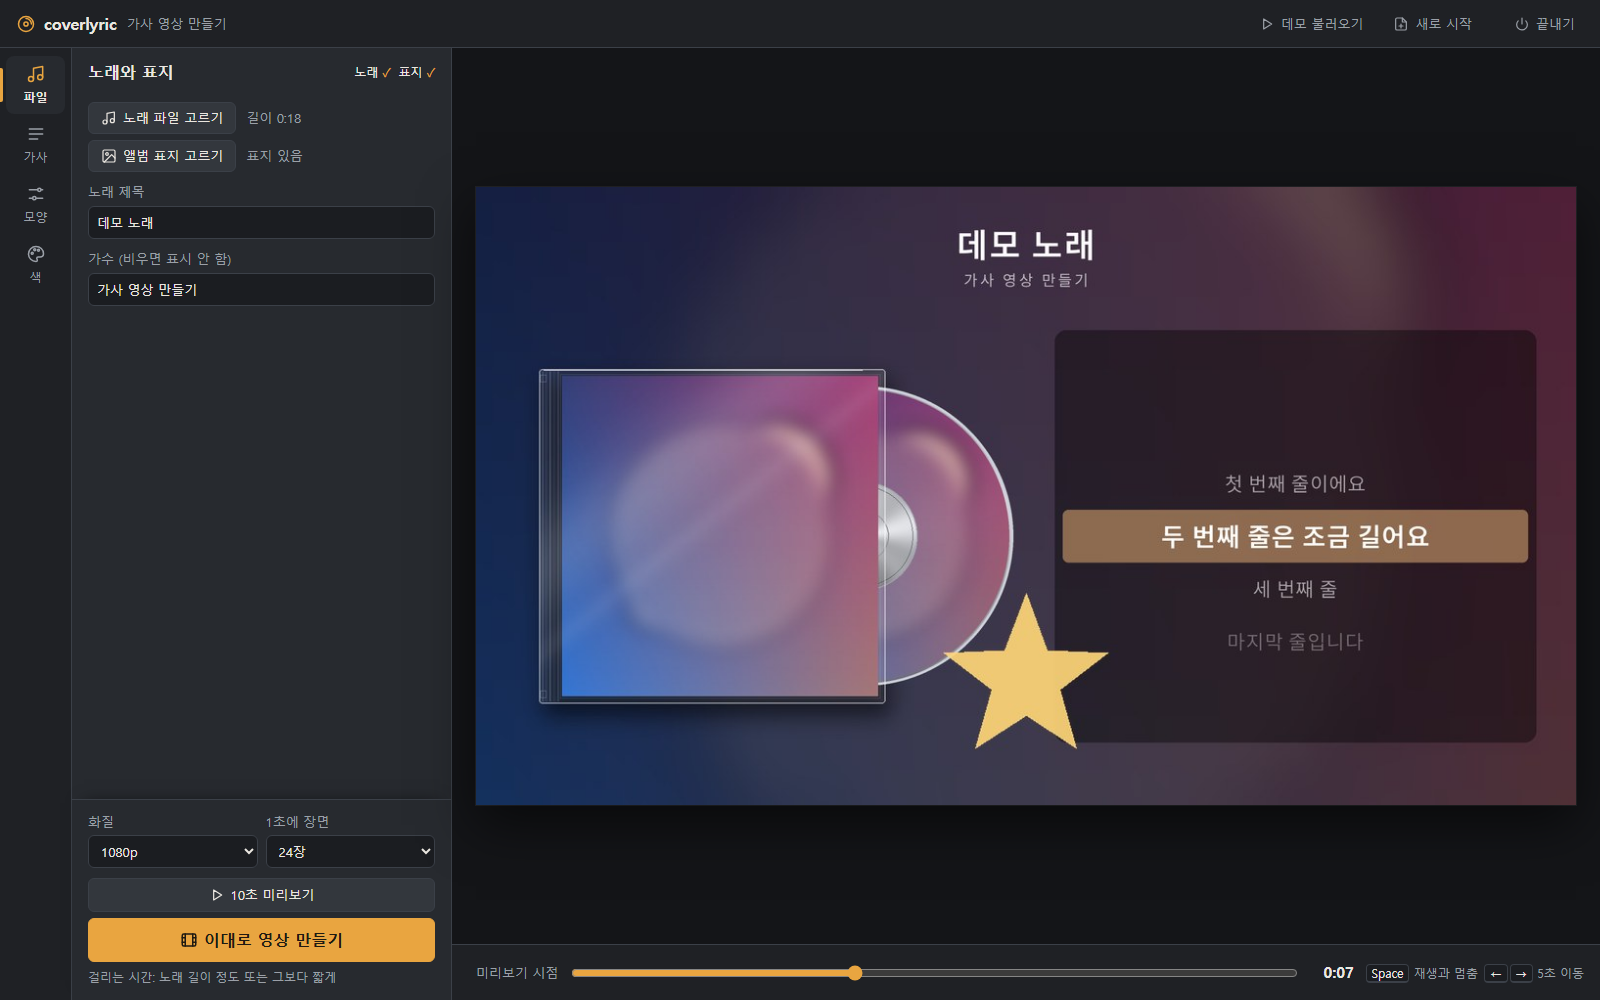
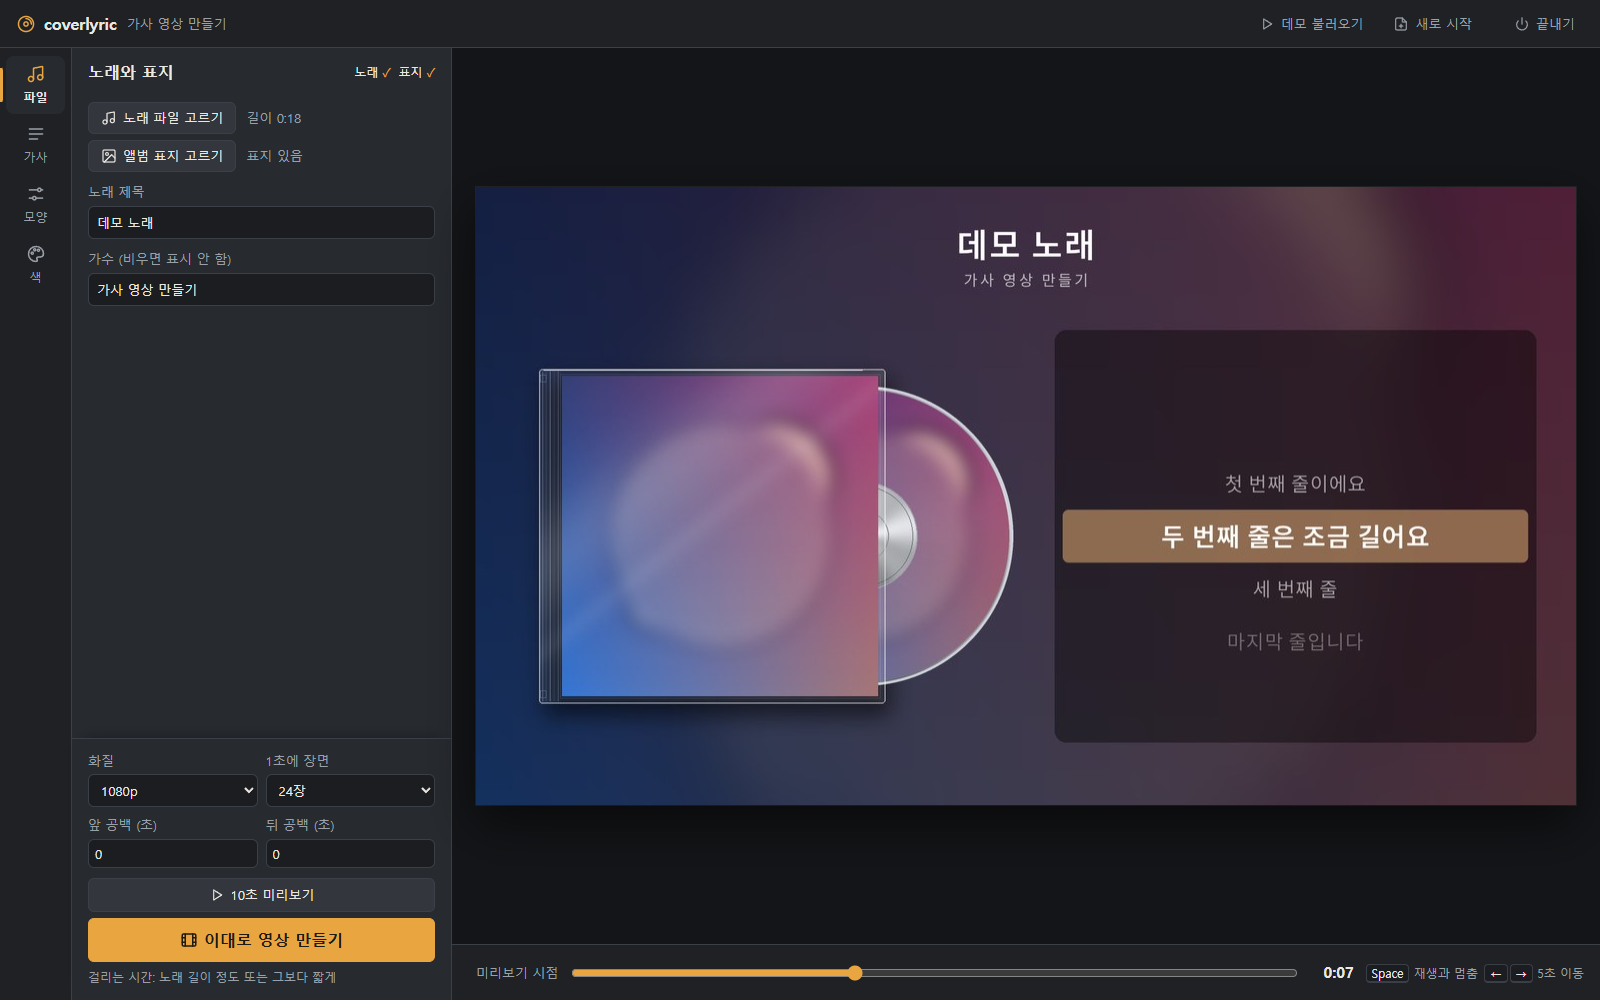
feat: silence before and after the song

Changed region(s): [[0.5938, 0.589, 0.6875, 0.744], [0.1562, 0.744, 0.2188, 0.868], [0.0625, 0.775, 0.0938, 0.868]]

diff --git a/src/coverlyric/web/app.js b/src/coverlyric/web/app.js
@@ -372,6 +372,8 @@ function fillLook() {
   $("fade").checked = s.fade;
   $("height").value = String(s.height);
   $("fps").value = String(s.fps);
+  $("lead").value = String(s.lead);
+  $("tail").value = String(s.tail);
   drawAnim();
   fillPlaces();
   const select = $("font");
@@ -944,7 +946,7 @@ async function pollRender() {
     const share = job.total ? job.done / job.total : 0;
     $("progress-bar").value = share;
     $("progress-text").textContent = `${Math.round(share * 100)}%${job.eta != null ? timeLeft(job.eta) : " · 남은 시간 계산 중"}`;
-    showRenderPlace(job.done || 0, job.total || state.duration || 0);
+    showRenderPlace(job.done || 0, job.total || videoLength());
     setTimeout(pollRender, 1000);
     return;
   }
@@ -972,7 +974,7 @@ async function pollClip() {
   if (job.state === "running") {
     $("clip-make").disabled = true;
     label.textContent = `만드는 중 ${Math.round((job.total ? job.done / job.total : 0) * 100)}%`;
-    showRenderPlace((job.at || 0) + (job.done || 0), state.duration || 0);
+    showRenderPlace((job.at || 0) + (job.done || 0), videoLength());
     setTimeout(pollClip, 500);
     return;
   }
@@ -1001,12 +1003,16 @@ function closeClip() {
   $("clip-label").textContent = "10초 미리보기";
 }
 
-// Progress in song terms: how far into the song the video is made, and the lyric sung there, so the
-// pace reads against the song itself.
+// The video is the song with the silence before and after it.
+function videoLength() {
+  return (state.duration || 0) + (state.style.lead || 0) + (state.style.tail || 0);
+}
+
+// Progress on the video's clock, and the lyric sung there, so the pace reads against the song itself.
 function showRenderPlace(done, total) {
   const short = (t) => clock(t).replace(/\.\d+$/, "");
   $("progress-song").textContent = `${short(done)} / ${short(total)}`;
-  const at = lineAt(done);
+  const at = lineAt(done - (state.style.lead || 0));
   const text = at < 0 ? "" : state.lines[at][1].trim();
   const el = $("progress-line");
   el.textContent = text || (at < 0 ? "전주" : "간주");
@@ -1194,6 +1200,14 @@ function bind() {
   $("fade").addEventListener("change", (e) => { state.style.fade = e.target.checked; scheduleSync(0); });
   $("height").addEventListener("change", (e) => { state.style.height = Number(e.target.value); scheduleSync(0); });
   $("fps").addEventListener("change", (e) => { state.style.fps = Number(e.target.value); scheduleSync(0); });
+  for (const key of ["lead", "tail"]) {
+    $(key).addEventListener("change", (e) => {
+      const seconds = Math.min(10, Math.max(0, Math.round((Number(e.target.value) || 0) * 2) / 2));
+      e.target.value = String(seconds);
+      state.style[key] = seconds;
+      scheduleSync(0);
+    });
+  }
   $("anim-file").addEventListener("change", (e) => { addAnim(e.target.files); e.target.value = ""; });
   $("anim_fps").addEventListener("input", (e) => {
     state.style.anim_fps = Number(e.target.value);

diff --git a/src/coverlyric/web/index.html b/src/coverlyric/web/index.html
@@ -249,6 +249,12 @@
           <option value="30">30장</option>
         </select>
       </label>
+      <label class="field" title="노래가 시작하기 전에 소리 없이 표지와 제목만 보이는 시간">앞 공백 (초)
+        <input type="number" id="lead" min="0" max="10" step="0.5">
+      </label>
+      <label class="field" title="노래가 끝난 뒤 소리 없이 마지막 화면이 이어지는 시간">뒤 공백 (초)
+        <input type="number" id="tail" min="0" max="10" step="0.5">
+      </label>
     </div>
     <div class="make-row">
       <button id="clip-make" title="미리보기 시점부터 10초를 작게 만들어 바로 재생합니다"><svg class="i"><use href="#i-play"/></svg><span id="clip-label">10초 미리보기</span></button>

diff --git a/src/coverlyric/web/app.css b/src/coverlyric/web/app.css
@@ -285,7 +285,7 @@ input[type="range"] { width: 100%; margin: 4px 0; }
 .make-row { display: flex; flex-direction: column; gap: 6px; }
 #clip-make { width: 100%; height: 34px; justify-content: center; white-space: nowrap; }
 .output-options { display: flex; flex-wrap: wrap; gap: 8px; margin-bottom: 10px; }
-.output-options .field { flex: 1; margin: 0; }
+.output-options .field { flex: 1 1 40%; margin: 0; }
 button.primary {
   width: 100%;
   height: 44px;

diff --git a/tests/test_pad.py b/tests/test_pad.py
@@ -1,0 +1,101 @@
+"""Silence before and after the song: the video starts on the cover, the song and the lyrics a little later."""
+
+import json
+from pathlib import Path
+
+import pytest
+from test_fade import DEMO, loudness
+
+from coverlyric import media, render, server
+from coverlyric.project import Project
+
+LEAD, TAIL = 1.0, 1.5
+PAD = render.Style(lead=LEAD, tail=TAIL, fade=False)
+
+
+def test_the_lines_move_on_the_video_clock_and_the_project_keeps_song_times():
+    song = render.Song("a.wav", "c.png", "t", duration=10.0)
+    lines = ((2.0, "a"), (4.5, "b"))
+    moved, video = render.padded(lines, song, PAD)
+    assert moved == ((3.0, "a"), (5.5, "b"))
+    assert video.duration == 12.5 and (video.lead, video.tail) == (LEAD, TAIL)
+    assert render.padded(moved, video, PAD) == (moved, video), "padding twice adds nothing"
+    assert render.padded(lines, song, render.Style()) == (lines, song)
+
+
+def test_a_moment_of_the_song_in_the_video():
+    assert render.video_time(4.0, PAD) == 5.0
+    assert render.video_time(0.0, PAD) == 0.0, "the song's start shows the silence before it"
+    assert render.video_time(4.0, render.Style()) == 4.0
+
+
+def test_a_style_saved_without_them_has_no_silence():
+    style = render.Style.from_dict({"lead": "1.5"})
+    assert (style.lead, style.tail) == (1.5, 0.0)
+
+
+def make(tmp_path: Path, span, style: render.Style, quick: bool = False) -> Path:
+    demo = Project.load(DEMO)
+    out = tmp_path / "pad.mp4"
+    render.render(out, demo.preview_lines(), demo.song(), style, 2, span, lambda *_: None, quick)
+    return out
+
+
+def test_the_song_starts_after_the_silence_before_it(tmp_path):
+    (tmp_path / "pad").mkdir()
+    (tmp_path / "plain").mkdir()
+    pad = make(tmp_path / "pad", (0.0, 2.5), PAD)
+    plain = make(tmp_path / "plain", (0.0, 1.5), render.Style(fade=False))
+    assert loudness(pad, 0.1, 0.8) < 1
+    assert loudness(plain, 0.2) > 100
+    assert loudness(pad, LEAD + 0.2) == pytest.approx(loudness(plain, 0.2), rel=0.1)
+    assert media.duration(str(pad)) == pytest.approx(2.5, abs=0.1)
+
+
+def test_the_video_is_as_long_as_the_song_and_both_silences(tmp_path):
+    song = Project.load(DEMO).song().duration
+    out = make(tmp_path, None, PAD, quick=True)
+    assert media.duration(str(out)) == pytest.approx(song + LEAD + TAIL, abs=0.15)
+    assert loudness(out, song + LEAD - 0.6, 0.3) > 1
+    assert loudness(out, song + LEAD + 0.3, 1.0) < 1
+
+
+def test_the_page_maps_the_preview_time_onto_the_video(tmp_path):
+    app = server.App(tmp_path)
+    app.demo()
+    app.update({"style": {"lead": LEAD, "tail": TAIL}})
+    song = app.project.song().duration
+    app.job = {"state": "idle"}
+    assert app.preview(0.0)[0][:2] == b"\xff\xd8"
+    app.start_clip(4.0)
+    assert app.clip["at"] == pytest.approx(4.0 + LEAD)
+    app.stop_clip()
+    app.start_clip(0.0)
+    assert app.clip["at"] == 0.0
+    app.stop_clip()
+    app.start_clip(song + 5.0)
+    assert app.clip["at"] == pytest.approx(song + LEAD + TAIL - 1.0)
+    app.stop_clip()
+
+
+def test_a_render_job_counts_the_padded_length(tmp_path, monkeypatch):
+    app = server.App(tmp_path)
+    app.demo()
+    app.update({"style": {"lead": LEAD, "tail": TAIL}})
+    started = []
+    monkeypatch.setattr(
+        server.subprocess, "Popen", lambda cmd, **kw: started.append(cmd) or FakeProc()
+    )
+    monkeypatch.setattr(app, "watch", lambda *a: None)
+    job = app.begin_render()
+    assert job["total"] == pytest.approx(app.project.duration + LEAD + TAIL)
+    data = json.loads((app.work / "job.json").read_text(encoding="utf-8"))
+    assert (data["style"]["lead"], data["style"]["tail"]) == (LEAD, TAIL)
+
+
+class FakeProc:
+    stdout = iter(())
+    pid = 0
+
+    def wait(self):
+        return 0

diff --git a/src/coverlyric/render.py b/src/coverlyric/render.py
@@ -113,6 +113,8 @@ class Style:
     floor: float = 0.0  # 0 to 1: a soft shadow on the floor under the album
     reflection: bool = False  # the case mirrored on the floor under it (case layout)
     intro: float = 0.0  # seconds of a full-frame title card at the start, ended by the first line
+    lead: float = 0.0  # seconds of silence before the song starts
+    tail: float = 0.0  # seconds of silence after the song ends
 
     @classmethod
     def from_dict(cls, data: dict) -> Style:
@@ -137,6 +139,8 @@ class Song:
     artist: str = ""
     duration: float = 0.0
     anim: tuple[str, ...] = ()  # the moving picture: one GIF or images in order
+    lead: float = 0.0  # seconds of silence the video has before the audio starts; in duration
+    tail: float = 0.0  # seconds of silence after the audio; in duration
 
 
 def band_rgb(style: Style) -> tuple[int, int, int]:
@@ -1298,6 +1302,7 @@ def render(
     Returns what the user should know about the video: ANIM_DROPPED and SMALLER, or "" when it is
     as asked."""
     codec = "libx264" if quick else media.encoder()
+    lines, song = padded(lines, song, style)
     tries = steps(workers, bool(song.anim), not quick and not HEIGHTS.get(style.height))
     for k, (count, shared, moving, small) in enumerate(tries):
         part = song if moving else replace(song, anim=())
@@ -1394,6 +1399,24 @@ def room_for(mb: float) -> bool:
 FADE_IN, FADE_OUT = 0.5, 1.5  # seconds
 
 
+def padded(
+    lines: tuple[tuple[float, str], ...], song: Song, style: Style
+) -> tuple[tuple[tuple[float, str], ...], Song]:
+    """The lines and the song on the video's own clock: style.lead seconds of silence first, the lines
+    moved later by as much, and style.tail seconds of silence at the end. The project keeps song times."""
+    if song.lead or song.tail or (style.lead <= 0 and style.tail <= 0):
+        return lines, song
+    lead, tail = max(0.0, style.lead), max(0.0, style.tail)
+    moved = tuple((t + lead, text) for t, text in lines)
+    return moved, replace(song, duration=song.duration + lead + tail, lead=lead, tail=tail)
+
+
+def video_time(t: float, style: Style) -> float:
+    """Where a moment of the song falls in the video. The song's start shows the video's start, so a
+    preview at 0 shows the silence before the song."""
+    return t + max(0.0, style.lead) if t > 0 else 0.0
+
+
 def fades(style: Style, duration: float, first: float, last: float) -> tuple[list[str], list[str]]:
     """ffmpeg's video and audio filters for the fade from and to black and silence, on the part of
     the song from first to last: the fade in only when it holds the start, the fade out only when it
@@ -1429,6 +1452,11 @@ def encode(
     begin, total = round(first * fps), math.ceil(last * fps)
     step = QUICK_STEP if quick else 1
     vf, af = fades(style, song.duration, first, last)
+    # The audio's own clock is behind the video's by song.lead; the silence before it is a delay and
+    # the silence after it is padding up to the part's length.
+    heard = first - song.lead
+    if song.lead or song.tail:
+        af[:0] = [*([f"adelay={round(-heard * 1000)}:all=1"] if heard < 0 else []), "apad"]
     if not quick and HEIGHTS.get(style.height):
         vf.insert(0, "scale={}:{}".format(*HEIGHTS[style.height]))
     if quick:
@@ -1454,7 +1482,7 @@ def encode(
         "-i",
         "-",
         "-ss",
-        f"{first:.3f}",
+        f"{max(0.0, heard):.3f}",
         "-t",
         f"{last - first:.3f}",
         "-i",
@@ -1471,6 +1499,8 @@ def encode(
         "aac",
         "-b:a",
         "192k",
+        "-t",
+        f"{last - first:.3f}",
         "-movflags",
         "+faststart",
         str(out),

diff --git a/src/coverlyric/server.py b/src/coverlyric/server.py
@@ -296,9 +296,10 @@ class App:
         p = self.project
         if not p.art:
             raise ValueError("앨범 표지가 없습니다. 파일 묶음에서 표지를 넣습니다.")
-        song = p.song()
+        lines, song = render.padded(p.preview_lines(), p.song(), p.style)
+        t = render.video_time(t, p.style)
         with self.lock:
-            img = render.frame(t, p.preview_lines(), song, p.style)
+            img = render.frame(t, lines, song, p.style)
         width = min(1280, max(320, width))
         small = img.resize((width, round(width * 9 / 16)), Image.LANCZOS)
         buf = io.BytesIO()
@@ -345,7 +346,9 @@ class App:
         self.stop_clip()  # the video wins over a look at it
         if self.auto.get("state") == "running":
             # Both at once need about 2 GB, more than a 4 GB PC has free.
-            raise ValueError("자동 맞추기가 진행 중입니다. 끝나거나 취소한 뒤에 영상을 만들 수 있습니다.")
+            raise ValueError(
+                "자동 맞추기가 진행 중입니다. 끝나거나 취소한 뒤에 영상을 만들 수 있습니다."
+            )
         p = self.project
         if not p.audio or not p.art:
             raise ValueError("노래 파일과 앨범 표지가 필요합니다. 파일 묶음에서 넣습니다.")
@@ -371,7 +374,8 @@ class App:
             **media.below_normal(),
             **new_group(),
         )
-        self.job = {"state": "running", "done": 0.0, "total": p.duration, "started": time.time()}
+        total = p.duration + p.style.lead + p.style.tail
+        self.job = {"state": "running", "done": 0.0, "total": total, "started": time.time()}
         LOG.info("render started: %s (%.1f s)", out.name, p.duration)
         threading.Thread(target=self.watch, args=(self.proc, out), daemon=True).start()
         return self.job
@@ -436,12 +440,14 @@ class App:
         if self.clip.get("state") == "running":
             return self.clip
         if self.job.get("state") == "running" or self.auto.get("state") == "running":
-            raise ValueError("영상 만들기나 자동 맞추기가 끝난 뒤에 미리보기 영상을 만들 수 있습니다.")
+            raise ValueError(
+                "영상 만들기나 자동 맞추기가 끝난 뒤에 미리보기 영상을 만들 수 있습니다."
+            )
         p = self.project
         if not p.audio or not p.art:
             raise ValueError("노래 파일과 앨범 표지가 필요합니다. 파일 묶음에서 넣습니다.")
-        song = p.song()
-        start = min(max(0.0, at), max(0.0, song.duration - 1.0))
+        _, song = render.padded((), p.song(), p.style)
+        start = min(render.video_time(max(0.0, at), p.style), max(0.0, song.duration - 1.0))
         end = min(song.duration, start + CLIP_S)
         out = self.work / "preview-clip.mp4"
         job = self.work / "clip-job.json"

diff --git a/src/coverlyric/__main__.py b/src/coverlyric/__main__.py
@@ -115,12 +115,12 @@ def run_job(path: Path) -> None:
     first = next((t for t, text in lines if text), 0.0)
     still = render.frame(min(song.duration, first + 0.6), lines, song, project.style)
     still.resize((1280, 720), Image.LANCZOS).save(out.with_suffix(".png"))
+    # The timing files go with the video, so they are on its clock, after the silence before the song.
+    timed, video = render.padded(tuple(project.lines), song, project.style)
     out.with_suffix(".lrc").write_text(
-        timing.to_lrc(project.lines, project.title, project.artist), encoding="utf-8"
+        timing.to_lrc(list(timed), project.title, project.artist), encoding="utf-8"
     )
-    out.with_suffix(".srt").write_text(
-        timing.to_srt(project.lines, song.duration), encoding="utf-8"
-    )
+    out.with_suffix(".srt").write_text(timing.to_srt(list(timed), video.duration), encoding="utf-8")
 
 
 def run_auto(path: Path) -> None:

diff --git a/docs/guide.en.md b/docs/guide.en.md
@@ -135,6 +135,11 @@ are in the **색** group, the rest in **모양**.
 
 - **화질** (1080p or 720p) and **1초에 장면** (24 or 30 frames a second): size and frame rate of the
   video. A 720p file is smaller and a little faster to make.
+- **앞 공백** and **뒤 공백** (silence before and after, 0 to 10 s in 0.5 s steps): silent time
+  before and after the song. During the silence before, only the cover and the title show, and the
+  song and the lyrics start that much later. During the silence after, the last frame stays. The
+  fade is at the start and the end of the whole video, silence included. The saved lyric times do
+  not change; only the LRC and SRT files saved next to the video are moved to the video's clock.
 - **10초 미리보기** (10-second preview) makes 10 seconds from the preview time at small size and
   plays it in place of the still; **미리보기 닫기** closes it.
 - **이대로 영상 만들기** → **확인**. While it runs, the page shows how far into the song the video is

diff --git a/docs/guide.md b/docs/guide.md
@@ -128,6 +128,10 @@
 
 - **화질** (1080p, 720p), **1초에 장면** (24장, 30장): 만들 영상의 크기와 초당 장면 수. 720p는 파일이
   작고 조금 빨리 만들어집니다.
+- **앞 공백**, **뒤 공백** (0~10초, 0.5초 단위): 노래 앞과 뒤에 넣는 소리 없는 시간. 앞 공백 동안은
+  표지와 제목만 보이고, 노래와 가사는 그만큼 늦게 시작합니다. 뒤 공백 동안은 마지막 화면이
+  이어집니다. 페이드는 공백을 포함한 영상 전체의 처음과 끝에 들어갑니다. 저장된 가사 시간은 그대로이고,
+  영상 옆에 저장되는 LRC·SRT 파일만 영상 시간에 맞춰 늦춰집니다.
 - **10초 미리보기**는 미리보기 시점부터 10초를 작게 만들어 그림 자리에서 재생합니다. **미리보기
   닫기**로 돌아옵니다.
 - **이대로 영상 만들기** → **확인**. 진행 중에는 노래의 몇 분까지 만들었는지, 그 곳의 가사, 남은

diff --git a/README.en.md b/README.en.md
@@ -48,7 +48,8 @@ in **모양** (look), band colour and background in **색** (colour).
 ## Video
 
 Click **이대로 영상 만들기** (make the video) → **확인**. Videos are saved in `만든 영상` in the
-program folder; **영상 폴더 열기** (open the video folder) opens it.
+program folder; **영상 폴더 열기** (open the video folder) opens it. If the song starts on its very
+first sound, put a number of seconds such as 1 in **앞 공백** (silence before).
 
 ## Troubleshooting
 

diff --git a/README.md b/README.md
@@ -45,7 +45,7 @@
 ## 영상
 
 **이대로 영상 만들기** → **확인**. 영상은 프로그램 폴더의 `만든 영상` 에 저장되고, **영상 폴더 열기**로
-엽니다.
+엽니다. 노래가 첫 소리부터 바로 시작하면 **앞 공백**에 1처럼 초를 넣습니다.
 
 ## 문제 해결
 
